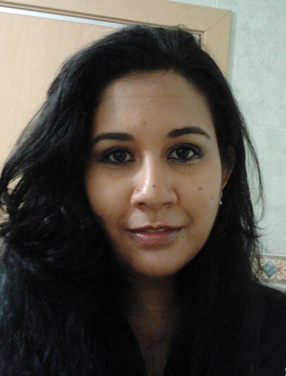
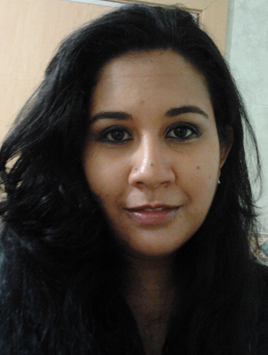
MOD estilos de fotografia (Listos)

diff --git a/index.html b/index.html
@@ -68,7 +68,7 @@
                     <div class="row">
                         <div class="col-md-5">
                             <div class="person_img">
-                                <img src="img/member/member-1.png" alt="" align="center">
+                                <img src="img/member/member-1.png" alt="" align="center" class="circular--square">
                                 <a class="download_btn" href="#"><span>Descargar Resumen</span></a>   
                             </div>
                         </div>
@@ -272,9 +272,10 @@
                             </div>
                         </div>
                     </div>
-                </section><br/>
-                <section class="education_area pad">
-                    <div class="main_title" id="experience">
+                </section>
+
+                <section class="education_area pad" id="experience">
+                    <div class="main_title">
                         <h2>EXPERIENCIA LABORAL</h2>
                     </div>
                     <div class="education_inner_area">

diff --git a/css/style.css b/css/style.css
@@ -290,19 +290,26 @@ body, p, h1, h2, h3, h4, h5, h6 {
 .about_person_area {
   background: #fff;
   padding-top: 40px;
-  padding-bottom: 40px;
+  padding-bottom: 80px;
 }
 
 .about_person_area .person_img {
   max-width: 322px;
 }
 
+.circular--square {
+    width:300px;
+    height:300px;
+    border-radius:150px;
+    border:7px solid #27b7e7;
+}
 .about_person_area .person_img img {
   max-width: 100%;
 }
 
 .about_person_area .person_img .download_btn {
   margin-top: 40px;
+  font-family: -webkit-pictograph;
 }
 
 .about_person_area .person_details {
